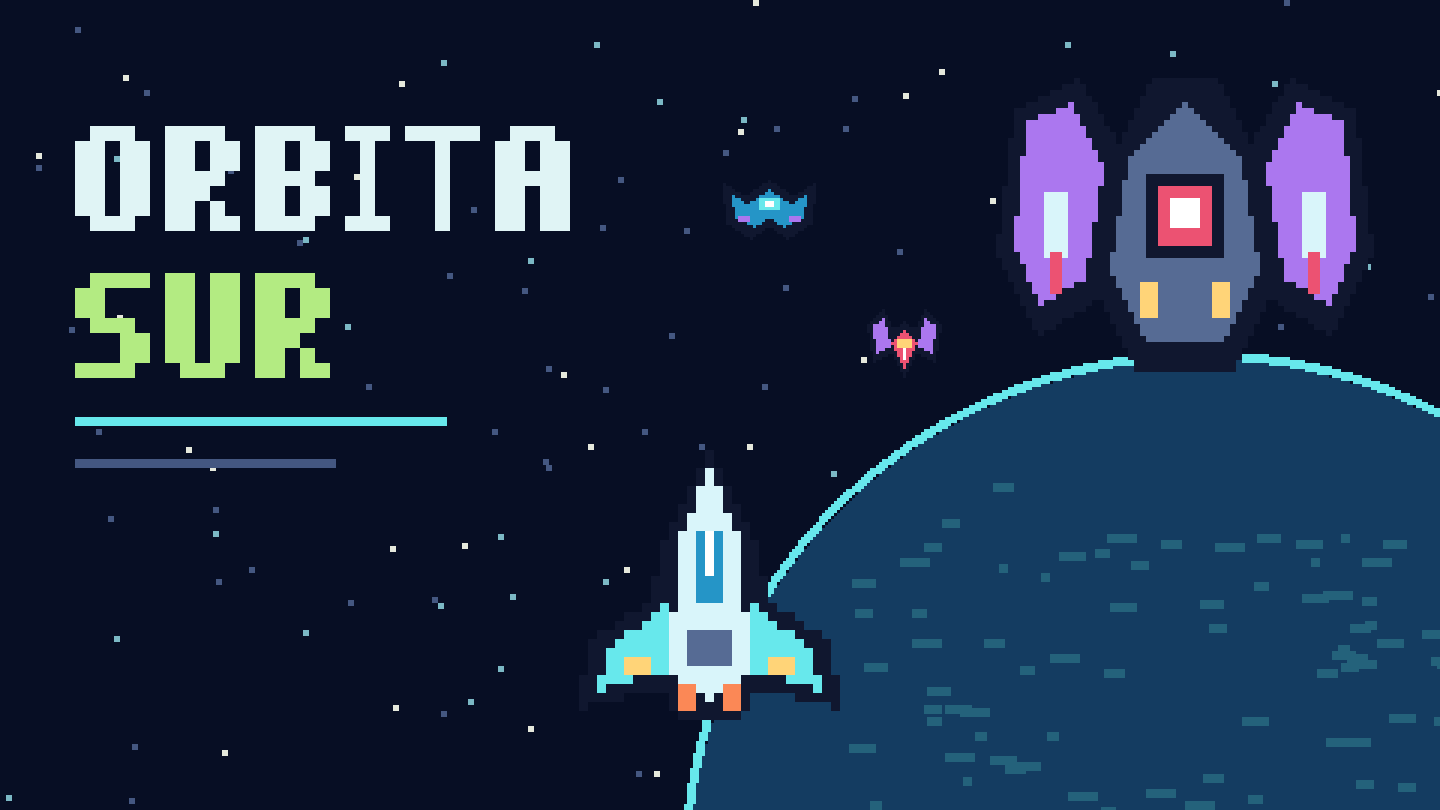
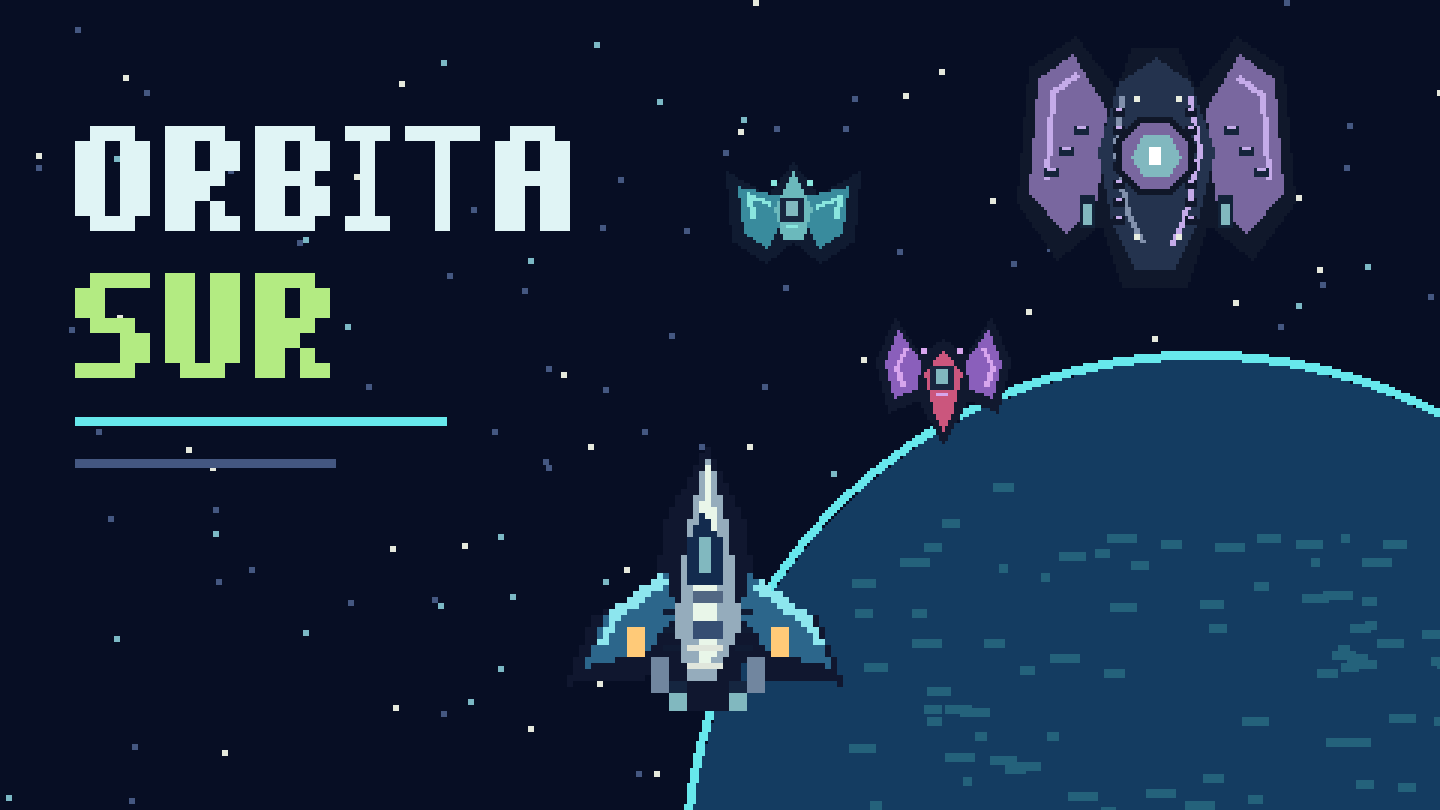
Upgrade Orbita Sur with animated detailed ships and cinematic boss attacks

diff --git a/games/orbita-sur/game.js b/games/orbita-sur/game.js
@@ -8,16 +8,16 @@ const audio={ctx:null,on:saved.sound,last:0,enable(){try{this.ctx??=new (window.
 const fmt=n=>Math.floor(n).toString().padStart(6,'0');
 class Orbit extends Phaser.Scene{
  constructor(){super('Orbit');}
- preload(){for(const key of ['player','scout','manta','tank','boss0','boss1','boss2','mate'])this.load.image(key,`assets/${key}.png`);}
+ preload(){for(const key of ['player','scout','manta','tank','boss0','boss1','boss2','mate']){if(key==='mate')this.load.image(key,`assets/${key}.png`);else{const size=key.startsWith('boss')?96:48;this.load.spritesheet(key,`assets/${key}-sheet.png`,{frameWidth:size,frameHeight:size});}}}
  create(){
-  this.W=this.scale.width;this.H=this.scale.height;this.fx=this.add.graphics().setDepth(20);this.bg=this.add.graphics().setDepth(-10);this.trails=this.add.graphics().setDepth(0);this.ship=this.add.image(this.W*.5,this.H*.78,'player').setScale(1.8).setDepth(10);
+  this.W=this.scale.width;this.H=this.scale.height;this.fx=this.add.graphics().setDepth(20);this.bg=this.add.graphics().setDepth(-10);this.trails=this.add.graphics().setDepth(0);this.ship=this.add.image(this.W*.5,this.H*.78,'player').setScale(1.4).setDepth(10);
   this.stars=Array.from({length:140},()=>({x:Math.random()*this.W,y:Math.random()*this.H,z:Math.random(),tw:Math.random()*6}));
-  this.enemies=[];this.shots=[];this.hostile=[];this.particles=[];this.pickups=[];this.rings=[];this.timeAlive=0;this.clock=0;this.mode='title';this.sector=0;this.score=0;this.lives=5;this.pulse=0;this.invuln=0;this.wave=0;this.kills=0;this.boss=null;this.bannerTime=0;this.fire=0;this.phase='waves';this.waveWait=2;
+  this.enemies=[];this.shots=[];this.hostile=[];this.particles=[];this.pickups=[];this.rings=[];this.delayed=[];this.beam=null;this.muzzle=0;this.timeAlive=0;this.clock=0;this.mode='title';this.sector=0;this.score=0;this.lives=5;this.pulse=0;this.invuln=0;this.wave=0;this.kills=0;this.boss=null;this.bannerTime=0;this.fire=0;this.phase='waves';this.waveWait=2;
   this.keys=this.input.keyboard.addKeys('W,A,S,D,UP,DOWN,LEFT,RIGHT,SPACE,P,ESC');this.input.keyboard.addCapture(['UP','DOWN','LEFT','RIGHT','SPACE']);
   this.input.keyboard.on('keydown-SPACE',e=>{if(!e.repeat)this.pulseBurst();});this.input.keyboard.on('keydown-P',e=>{if(!e.repeat)this.togglePause();});this.input.keyboard.on('keydown-ESC',()=>{if(this.mode==='playing')this.togglePause();});
   this.input.on('pointerdown',p=>{if(this.mode==='playing'){this.dragging=true;this.target={x:p.x,y:p.y};}});this.input.on('pointermove',p=>{if(this.dragging&&p.isDown)this.target={x:p.x,y:p.y};});this.input.on('pointerup',()=>{this.dragging=false;this.target=null;});
   this.game.events.on(Phaser.Core.Events.BLUR,()=>{if(this.mode==='playing')this.togglePause();});
-  this.scale.on('resize',size=>{const sx=size.width/this.W,sy=size.height/this.H;this.W=size.width;this.H=size.height;this.ship.x*=sx;this.ship.y*=sy;for(const a of [...this.enemies,...this.shots,...this.hostile,...this.pickups]){a.x*=sx;a.y*=sy;}for(const s of this.stars){s.x*=sx;s.y*=sy;}});
+  this.scale.on('resize',size=>{const sx=size.width/this.W,sy=size.height/this.H;this.W=size.width;this.H=size.height;this.ship.x*=sx;this.ship.y*=sy;for(const a of [...this.enemies,...this.shots,...this.hostile,...this.pickups]){a.x*=sx;a.y*=sy;if(Number.isFinite(a.baseX))a.baseX*=sx;}if(this.beam)this.beam.xs=this.beam.xs.map(x=>Phaser.Math.Clamp(x*sx,25,this.W-25));for(const s of this.stars){s.x*=sx;s.y*=sy;}});
   $('#start').onclick=()=>{audio.enable();if(this.mode==='paused')this.resume();else this.start();};$('#pause').onclick=()=>this.togglePause();$('#touch-pulse').onclick=()=>this.pulseBurst();$('#sound').onclick=()=>{audio.on=!audio.on;saved.sound=audio.on;audio.enable();persist();this.soundUI();};$('.brand').onclick=e=>e.preventDefault();
   this.soundUI();this.hud();$('#record').textContent='RÉCORD '+fmt(saved.best);
  }
@@ -25,7 +25,7 @@ class Orbit extends Phaser.Scene{
  start(){
   this.clean();this.sector=0;this.score=0;this.lives=5;this.wave=0;this.kills=0;this.pulse=0;this.invuln=2.5;this.clock=0;this.fire=0;this.weapon=0;this.phase='waves';this.waveWait=2.5;this.ship.setPosition(this.W/2,this.H*.81).setAlpha(1).setAngle(0);this.ship.visible=true;this.mode='playing';this.target=null;this.dragging=false;$('#overlay').classList.add('hidden');document.documentElement.classList.remove('paused');$('#boss-hud').hidden=true;this.announce('SECTOR 01',SECTORS[0].name,2.8);this.hud();
  }
- clean(){for(const e of this.enemies)e.sprite.destroy();for(const p of this.pickups)p.sprite.destroy();this.enemies=[];this.shots=[];this.hostile=[];this.particles=[];this.pickups=[];this.rings=[];this.boss=null;}
+ clean(){for(const e of this.enemies)e.sprite.destroy();for(const p of this.pickups)p.sprite.destroy();this.enemies=[];this.shots=[];this.hostile=[];this.particles=[];this.pickups=[];this.rings=[];this.delayed=[];this.beam=null;this.muzzle=0;this.boss=null;}
  togglePause(){if(this.mode==='playing'){this.mode='paused';this.target=null;this.dragging=false;this.overlay('SEÑAL EN ESPERA','PAUSA','Tus mates siguen a bordo.<br>Retomá cuando quieras.','CONTINUAR');document.documentElement.classList.add('paused');}else if(this.mode==='paused')this.resume();}
  resume(){this.mode='playing';$('#overlay').classList.add('hidden');document.documentElement.classList.remove('paused');}
  overlay(eyebrow,title,desc,button){$('#eyebrow').textContent=eyebrow;$('#title').innerHTML=title;$('#description').innerHTML=desc;$('#start').innerHTML=button+' <span>↗</span>';$('#brief').style.display='none';$('#hint').textContent=this.mode==='paused'?'P para continuar · Tu partida queda en pausa':'Récord guardado en este navegador · Una partida más';$('#overlay').classList.remove('hidden');}
@@ -34,9 +34,9 @@ class Orbit extends Phaser.Scene{
   $('#score').textContent=fmt(this.score);$('#lives').innerHTML=Array.from({length:5},(_,i)=>`<img class="${i>=this.lives?'empty':''}" src="assets/mate.png" alt="">`).join('');$('#lives').setAttribute('aria-label',`${this.lives} mates`);
   $('#mission').textContent=`0${this.sector+1} / ${SECTORS[this.sector].name}`;$('#sector-label').textContent=SECTORS[this.sector].signal;
  }
- burst(x,y,color=0xffd478,n=18,big=false){for(let i=0;i<n;i++){const a=Math.random()*Math.PI*2,v=(40+Math.random()*150)*(big?1.6:1);this.particles.push({x,y,vx:Math.cos(a)*v,vy:Math.sin(a)*v,life:.3+Math.random()*.55,max:.85,color,size:Math.random()<.25?5:3});}this.rings.push({x,y,r:4,max:big?135:48,life:big?.6:.3,color});}
- pulseBurst(){if(this.mode!=='playing'||this.pulse>0)return;this.pulse=8;this.hostile=[];this.invuln=Math.max(this.invuln,.7);this.rings.push({x:this.ship.x,y:this.ship.y,r:0,max:Math.max(this.W,this.H)*1.25,life:.65,color:0x67e8ec,pulse:true});for(const e of [...this.enemies])this.damage(e,e.boss?12:5);this.cameras.main.shake(120,.003);audio.tone(110,.5,'sine',.065,1000);this.announce('PROYECTILES DESPEJADOS','PULSO AUSTRAL',.8);}
- spawn(type,x,y,options={}){const hp={scout:2,manta:3,tank:7,boss0:85,boss1:125,boss2:165}[type],e={type,x,y,baseX:x,age:0,hp,maxHp:hp,r:type.startsWith('boss')?43:type==='tank'?24:18,cd:1+Math.random(),flash:0,...options};e.sprite=this.add.image(x,y,type).setScale(type.startsWith('boss')?2:1.5).setDepth(5);this.enemies.push(e);if(e.boss)this.boss=e;return e;}
+ burst(x,y,color=0xffd478,n=18,big=false){for(let i=0;i<n;i++){const a=Math.random()*Math.PI*2,v=(40+Math.random()*150)*(big?1.6:1);this.particles.push({x,y,vx:Math.cos(a)*v,vy:Math.sin(a)*v,life:.3+Math.random()*.55,max:.85,color,size:Math.random()<.25?5:3});}this.rings.push({x,y,r:4,max:big?135:48,life:big?.6:.3,color});this.rings.push({x,y,r:1,max:big?80:28,life:.3,color:0xffefd0});if(big)for(let i=0;i<10;i++){const a=i*Math.PI/5;this.particles.push({x,y,vx:Math.cos(a)*160,vy:Math.sin(a)*160,life:1.1,color:i%2?0x617b98:color,size:6});}}
+ pulseBurst(){if(this.mode!=='playing'||this.pulse>0)return;this.pulse=8;this.hostile=[];this.beam=null;this.invuln=Math.max(this.invuln,.7);this.rings.push({x:this.ship.x,y:this.ship.y,r:0,max:Math.max(this.W,this.H)*1.25,life:.65,color:0x67e8ec,pulse:true});for(const e of [...this.enemies])this.damage(e,e.boss?12:5);this.cameras.main.shake(120,.003);this.cameras.main.flash(90,50,130,140,false);audio.tone(110,.5,'sine',.065,1000);this.announce('PROYECTILES DESPEJADOS','PULSO AUSTRAL',.8);}
+ spawn(type,x,y,options={}){const hp={scout:2,manta:3,tank:7,boss0:85,boss1:125,boss2:165}[type],e={type,x,y,baseX:x,age:0,hp,maxHp:hp,r:type.startsWith('boss')?55:type==='tank'?24:18,cd:1+Math.random(),flash:0,...options};e.sprite=this.add.image(x,y,type).setScale(type.startsWith('boss')?2:1.2).setDepth(5);this.enemies.push(e);if(e.boss)this.boss=e;return e;}
  nextWave(){
   const s=this.sector,w=this.wave++,n=this.W<600?6:9;
   if(w===0){for(let i=0;i<n;i++)this.spawn('scout',this.W*(i+1)/(n+1),-70-i%3*45,{style:'drift',vy:54+s*9});}
@@ -47,27 +47,27 @@ class Orbit extends Phaser.Scene{
  spawnBoss(){this.phase='boss';const b=this.spawn('boss'+this.sector,this.W/2,-100,{boss:true,hp:SECTORS[this.sector].hp,maxHp:SECTORS[this.sector].hp});b.cd=2;$('#boss-name').textContent=SECTORS[this.sector].boss;$('#boss-hud').hidden=false;$('#boss-health').style.width='100%';}
  bullet(e,angle,speed=170,color=0xff8869){this.hostile.push({x:e.x,y:e.y+19,vx:Math.cos(angle)*speed,vy:Math.sin(angle)*speed,r:5,life:8,color});}
  aimed(e,count=1,speed=170){const a=Math.atan2(this.ship.y-e.y,this.ship.x-e.x);for(let i=0;i<count;i++)this.bullet(e,a+(i-(count-1)/2)*.16,speed);}
- damage(e,n=1){if(!this.enemies.includes(e))return;e.hp-=n;e.flash=.06;e.sprite.setTintFill(0xe4f9f5);if(e.boss)$('#boss-health').style.width=Math.max(0,e.hp/e.maxHp*100)+'%';if(e.hp<=0)this.destroyEnemy(e);}
- destroyEnemy(e,escaped=false){const idx=this.enemies.indexOf(e);if(idx<0)return;this.enemies.splice(idx,1);e.sprite.destroy();if(escaped)return;this.score+=e.boss?2500*(this.sector+1):e.type==='tank'?180:80;this.kills++;this.burst(e.x,e.y,e.boss?SECTORS[this.sector].color:0xffd478,e.boss?80:18,!!e.boss);audio.boom(!!e.boss);if(e.boss){this.boss=null;this.hostile=[];$('#boss-hud').hidden=true;this.cameras.main.shake(350,.008);this.phase='transit';this.waveWait=4;this.announce('SECTOR LIBERADO','SEÑAL RECUPERADA',3);this.lives=Math.min(5,this.lives+1);}else if(this.kills%8===0)this.drop(e.x,e.y,'mate');else if(this.kills%11===0)this.drop(e.x,e.y,'upgrade');this.hud();}
+ damage(e,n=1){if(!this.enemies.includes(e))return;e.hp-=n;this.hitSpark(e.x+(Math.random()-.5)*18,e.y+e.r);e.flash=.06;e.sprite.setTintFill(0xe4f9f5);if(e.boss)$('#boss-health').style.width=Math.max(0,e.hp/e.maxHp*100)+'%';if(e.hp<=0)this.destroyEnemy(e);}
+ destroyEnemy(e,escaped=false){const idx=this.enemies.indexOf(e);if(idx<0)return;this.enemies.splice(idx,1);e.sprite.destroy();if(escaped)return;this.score+=e.boss?2500*(this.sector+1):e.type==='tank'?180:80;this.kills++;this.burst(e.x,e.y,e.boss?SECTORS[this.sector].color:0xffd478,e.boss?80:18,!!e.boss);audio.boom(!!e.boss);if(e.boss){this.boss=null;this.hostile=[];this.beam=null;for(let i=0;i<9;i++)this.delayed.push({time:.08+i*.09,x:e.x+(Math.random()-.5)*140,y:e.y+(Math.random()-.5)*95});this.cameras.main.flash(120,180,130,90,false);$('#boss-hud').hidden=true;this.cameras.main.shake(350,.008);this.phase='transit';this.waveWait=4;this.announce('SECTOR LIBERADO','SEÑAL RECUPERADA',3);this.lives=Math.min(5,this.lives+1);}else if(this.kills%8===0)this.drop(e.x,e.y,'mate');else if(this.kills%11===0)this.drop(e.x,e.y,'upgrade');this.hud();}
  drop(x,y,type){const sprite=type==='mate'?this.add.image(x,y,'mate').setScale(1.8):this.add.text(x,y,'✦',{fontFamily:'monospace',fontSize:'27px',color:'#67e8ec'}).setOrigin(.5);sprite.setDepth(8);this.pickups.push({x,y,type,sprite,age:0});}
- hurt(){if(this.invuln>0||this.mode!=='playing')return;this.lives--;this.invuln=2;this.weapon=Math.max(0,this.weapon-1);this.burst(this.ship.x,this.ship.y,0x67e8ec,26);this.cameras.main.shake(160,.007);audio.boom();this.hud();if(this.lives<=0){this.ship.visible=false;this.finish(false);}}
+ hurt(){if(this.invuln>0||this.mode!=='playing')return;this.lives--;this.invuln=2;this.weapon=Math.max(0,this.weapon-1);this.burst(this.ship.x,this.ship.y,0x67e8ec,26);this.cameras.main.flash(80,120,30,45,false);this.cameras.main.shake(160,.007);audio.boom();this.hud();if(this.lives<=0){this.ship.visible=false;this.finish(false);}}
  finish(won){this.mode=won?'won':'lost';if(won)this.score+=this.lives*500;const record=this.score>saved.best;saved.best=Math.max(saved.best,this.score);persist();$('#record').textContent='RÉCORD '+fmt(saved.best);$('#announcement').style.opacity='0';$('#boss-hud').hidden=true;this.hud();this.overlay(won?'LA TIERRA ESCUCHA OTRA VEZ':'LA SEÑAL SIGUE AHÍ',won?'VOLVIMOS<br><em>AL SUR.</em>':'UNA ÓRBITA<br><em>MÁS.</em>',`${won?'Los tres sectores están libres. El faro vuelve a latir.':'La Austral-01 dejó su marca. Otra tripulación puede continuar.'}<br><br>PUNTAJE <b style="color:#b3eb82">${fmt(this.score)}</b>${record?' · NUEVO RÉCORD':''}<br>${won?`${this.lives} mates volvieron a casa.`:'Se terminaron los mates. El récord queda guardado.'}`,'VOLVER A DESPEGAR');audio.tone(won?440:180,.5,'triangle',.04,won?440:-100);}
  update(time,delta){
-  const dt=Math.min(delta/1000,.04);this.timeAlive+=dt;
+  const dt=Math.min(delta/1000,.04);if(this.mode!=='paused')this.timeAlive+=dt;this.ship.setFrame(Math.floor(this.timeAlive*12)%6);
   if(this.mode==='playing'){this.clock+=dt;this.tick(dt);}
   this.drawBackground(dt);this.drawFX(dt,this.mode==='playing');
   if(this.mode==='title'){this.ship.x=this.W*.72+Math.sin(this.timeAlive)*10;this.ship.y=this.H*.65+Math.cos(this.timeAlive*.7)*12;}
   if(this.mode==='playing'||this.mode==='title')this.thruster();
  }
  tick(dt){
-  this.invuln=Math.max(0,this.invuln-dt);this.pulse=Math.max(0,this.pulse-dt);this.ship.setAlpha(this.invuln>0?(Math.sin(this.clock*35)>0?.4:1):1);if(this.bannerTime>0){this.bannerTime-=dt;if(this.bannerTime<=0)$('#announcement').style.opacity='0';}
+  this.muzzle=Math.max(0,this.muzzle-dt);for(const d of this.delayed){d.time-=dt;if(d.time<=0){this.burst(d.x,d.y,0xffbf78,24,true);d.time=Infinity;}}this.delayed=this.delayed.filter(d=>d.time!==Infinity);this.updateBeam(dt);this.invuln=Math.max(0,this.invuln-dt);this.pulse=Math.max(0,this.pulse-dt);this.ship.setAlpha(this.invuln>0?(Math.sin(this.clock*35)>0?.4:1):1);if(this.bannerTime>0){this.bannerTime-=dt;if(this.bannerTime<=0)$('#announcement').style.opacity='0';}
   let dx=(this.keys.D.isDown||this.keys.RIGHT.isDown?1:0)-(this.keys.A.isDown||this.keys.LEFT.isDown?1:0),dy=(this.keys.S.isDown||this.keys.DOWN.isDown?1:0)-(this.keys.W.isDown||this.keys.UP.isDown?1:0);const l=Math.hypot(dx,dy)||1,speed=Math.min(this.W*.85,430);if(dx||dy){this.target=null;this.ship.x+=dx/l*speed*dt;this.ship.y+=dy/l*speed*dt;}else if(this.target){const ax=this.target.x-this.ship.x,ay=this.target.y-this.ship.y,dist=Math.hypot(ax,ay),step=Math.min(dist,speed*1.6*dt);if(dist>1){this.ship.x+=ax/dist*step;this.ship.y+=ay/dist*step;dx=ax;}}
   this.ship.x=Phaser.Math.Clamp(this.ship.x,28,this.W-28);this.ship.y=Phaser.Math.Clamp(this.ship.y,95,this.H-36);this.ship.setAngle(Phaser.Math.Linear(this.ship.angle,dx?Math.sign(dx)*-7:0,.14));
-  this.fire-=dt;if(this.fire<=0){this.fire=.14;const offsets=this.weapon>0?[-11,11]:[0];for(const ox of offsets)this.shots.push({x:this.ship.x+ox,y:this.ship.y-22,vy:-720,r:4});if(this.weapon>1)for(const sign of [-1,1])this.shots.push({x:this.ship.x+sign*15,y:this.ship.y-12,vx:sign*90,vy:-690,r:4});audio.shoot();}
+  this.fire-=dt;if(this.fire<=0){this.fire=.14;this.muzzle=.07;const offsets=this.weapon>0?[-11,11]:[0];for(const ox of offsets)this.shots.push({x:this.ship.x+ox,y:this.ship.y-22,vy:-720,r:4});if(this.weapon>1)for(const sign of [-1,1])this.shots.push({x:this.ship.x+sign*15,y:this.ship.y-12,vx:sign*90,vy:-690,r:4});audio.shoot();}
   for(const s of this.shots){s.x+=(s.vx||0)*dt;s.y+=s.vy*dt;for(const e of [...this.enemies])if(s.y>-40&&Math.hypot(s.x-e.x,s.y-e.y)<e.r+5){this.damage(e);s.y=-100;break;}}this.shots=this.shots.filter(s=>s.y>-50);
   for(const e of [...this.enemies]){
-   e.age+=dt;e.cd-=dt;e.flash-=dt;if(e.flash<=0)e.sprite.clearTint();
-   if(e.boss){const targetY=Math.min(120,this.H*.23);e.y+=Math.min(80*dt,Math.max(0,targetY-e.y));e.x=this.W/2+Math.sin(e.age*.7)*Math.min(this.W*.3,210);if(e.cd<=0&&e.y>70){e.cd=[1,.85,.72][this.sector];const enraged=e.hp<e.maxHp*.45;if(this.sector===0){this.aimed(e,enraged?5:3,175);if(enraged)this.bullet(e,Math.PI/2,230,0xffd478);}else if(this.sector===1){for(let i=0;i<10;i++)this.bullet(e,i*Math.PI/5+e.age*.25,145,0xba88f8);if(enraged)this.aimed(e,3,200);}else{for(let i=0;i<7;i++)this.bullet(e,Math.PI/2+(i-3)*.23+Math.sin(e.age)*.15,enraged?200:170,0xffd478);this.aimed(e,1,245);}}}
+   e.age+=dt;e.cd-=dt;e.sprite.setFrame(Math.floor(e.age*(e.boss?9:12))%6);e.flash-=dt;if(e.flash<=0)e.sprite.clearTint();
+   if(e.boss){if(e.hp<e.maxHp*.45&&!e.enraged){e.enraged=true;this.burst(e.x,e.y,SECTORS[this.sector].color,26);this.announce('REACTOR INESTABLE','FASE CRÍTICA',1.4);}e.special=(e.special??5)-dt;if(e.special<=0&&e.y>70){e.special=7;this.beam={xs:[Phaser.Math.Clamp(this.ship.x,35,this.W-35)],charge:1.15,life:.32,color:SECTORS[this.sector].color};if(this.sector===2&&this.W>550)this.beam.xs.push(Phaser.Math.Clamp(this.W-this.ship.x,35,this.W-35));audio.tone(180,.65,'sine',.025,500);}const targetY=Math.min(120,this.H*.23);e.y+=Math.min(80*dt,Math.max(0,targetY-e.y));e.x=this.W/2+Math.sin(e.age*.7)*Math.min(this.W*.3,210);if(e.cd<=0&&e.y>70){e.cd=[1,.85,.72][this.sector];const enraged=e.hp<e.maxHp*.45;if(this.sector===0){this.aimed(e,enraged?5:3,175);if(enraged)this.bullet(e,Math.PI/2,230,0xffd478);}else if(this.sector===1){for(let i=0;i<10;i++)this.bullet(e,i*Math.PI/5+e.age*.25,145,0xba88f8);if(enraged)this.aimed(e,3,200);}else{for(let i=0;i<7;i++)this.bullet(e,Math.PI/2+(i-3)*.23+Math.sin(e.age)*.15,enraged?200:170,0xffd478);this.aimed(e,1,245);}}}
    else{if(e.style==='hold'&&e.age<5&&e.y>this.H*.25)e.y+=Math.sin(e.age*2)*5*dt;else e.y+=e.vy*dt;if(e.style==='sine')e.x=e.baseX+Math.sin(e.age*2.1)*e.amp;else if(e.style==='drift')e.x=e.baseX+Math.sin(e.age*1.2)*22;
     if(e.cd<=0&&e.y>35&&e.y<this.H*.7){e.cd=e.type==='tank'?1.7:2.4;this.aimed(e,e.type==='tank'?3:1,150+this.sector*18);}
     if(e.y>this.H+70){this.destroyEnemy(e,true);continue;}}
@@ -80,18 +80,30 @@ class Orbit extends Phaser.Scene{
   if(this.enemies.length===0){this.waveWait-=dt;if(this.waveWait<=0){this.waveWait=1.6;if(this.phase==='waves')this.nextWave();else if(this.phase==='warning')this.spawnBoss();else if(this.phase==='transit'){if(this.sector===2){this.finish(true);return;}this.sector++;this.wave=0;this.phase='waves';this.waveWait=3;this.invuln=3;this.shots=[];this.weapon=Math.min(2,this.weapon+1);this.hud();this.announce(`SECTOR 0${this.sector+1}`,SECTORS[this.sector].name,2.7);}}}
   $('#pulse-status').textContent=this.pulse>0?Math.ceil(this.pulse)+'s':'LISTO';$('#pulse-fill').style.width=(1-this.pulse/8)*100+'%';$('#touch-pulse').disabled=this.pulse>0;$('#status').textContent=this.weapon>0?'ARMAS NIVEL 0'+(this.weapon+1):'NAVE AUSTRAL-01';
  }
+ hitSpark(x,y){for(let i=0;i<4;i++)this.particles.push({x,y,vx:(Math.random()-.5)*100,vy:40+Math.random()*100,life:.12+Math.random()*.13,color:i%2?0xffffff:0x67e8ec,size:2});}
+ updateBeam(dt){if(!this.beam)return;const b=this.beam;if(b.charge>0){b.charge-=dt;if(b.charge<=0){this.cameras.main.shake(120,.003);audio.tone(75,.3,'sawtooth',.04,-40);}}else{b.life-=dt;if(b.xs.some(x=>Math.abs(this.ship.x-x)<22))this.hurt();if(b.life<=0)this.beam=null;}}
+ drawCombat(){
+  const g=this.fx,t=this.timeAlive;
+  if(this.muzzle>0&&this.mode==='playing'){g.fillStyle(0xdffff5,.85);g.fillRect(this.ship.x-7,this.ship.y-34,14,3);g.fillRect(this.ship.x-2,this.ship.y-40,4,14);}
+  for(const e of this.enemies){const color=e.boss?SECTORS[this.sector].color:e.type==='manta'?0x67e8ec:0xe79be4;
+   // Separate exhaust plumes and rotating reactor field, kept behind hit effects.
+   for(const sign of [-1,1]){const x=e.x+sign*(e.boss?46:12),y=e.y-(e.boss?40:20),len=(e.boss?24:10)+Math.floor((Math.sin(t*30+sign)+1)*5);g.fillStyle(color,.15);g.fillRect(x-5,y-len,10,len);g.fillStyle(color,.7);g.fillRect(x-2,y-len*.65,4,len*.65);}
+   if(e.boss){const r=31+Math.sin(t*5)*3;g.lineStyle(2,color,.4);for(let j=0;j<8;j++){const a=t*.8+j*Math.PI/4;const x=e.x+Math.cos(a)*r,y=e.y-6+Math.sin(a)*r;g.fillStyle(color,.6);g.fillRect(Math.floor(x/2)*2,Math.floor(y/2)*2,4,4);}if(e.cd<.25){g.fillStyle(color,(.25-e.cd)*2);g.fillRect(e.x-11,e.y-17,22,22);}if(e.enraged&&Math.sin(t*12)>.4){g.fillStyle(0xff765e,.6);g.fillRect(e.x-44,e.y+18,6,3);g.fillRect(e.x+38,e.y+18,6,3);}}
+  }
+  if(this.beam){const b=this.beam;for(const x of b.xs){if(b.charge>0){g.fillStyle(b.color,.08);g.fillRect(x-20,85,40,this.H-85);g.fillStyle(b.color,.4+Math.sin(t*30)*.3);for(let y=90;y<this.H;y+=18)g.fillRect(x-1,y,2,8);g.lineStyle(2,b.color,.8);g.strokeTriangle(x-8,this.H-40,x+8,this.H-40,x,this.H-53);}else{g.fillStyle(b.color,.12);g.fillRect(x-30,80,60,this.H);g.fillStyle(b.color,.75);g.fillRect(x-12,80,24,this.H);g.fillStyle(0xfff6da,1);g.fillRect(x-4,80,8,this.H);}}}
+ }
  drawBackground(dt){const g=this.bg,w=this.W,h=this.H,t=this.timeAlive,s=this.sector;g.clear();g.fillStyle([0x080f24,0x100f28,0x101728][s],1);g.fillRect(0,0,w,h);
   // Quantized nebula bands; no gradients or smooth vector art inside the field.
   const col=[0x183450,0x302149,0x344039][s];for(let i=0;i<12;i++){g.fillStyle(col,.11);g.fillRect(Math.floor((Math.sin(i*.7+t*.03)*w*.15+w*.2+i*19)/8)*8,Math.floor((i*80+t*6)%(h+250)-170),80+i*8,120);}
   if(s===0){const cx=w*.85,cy=h*1.1+Math.sin(t*.05)*10,r=Math.min(w*.5,h*.65);g.fillStyle(0x234660,1);g.fillCircle(cx,cy,r+4);g.fillStyle(0x142e49,1);g.fillCircle(cx,cy,r);for(let i=0;i<50;i++){const x=cx-r+((i*79)%Math.floor(r*2)),y=cy-r+((i*43)%Math.floor(r*2));if((x-cx)**2+(y-cy)**2<(r-6)**2){g.fillStyle(i%3===0?0x32677a:0x215168,.7);g.fillRect(Math.floor(x/8)*8,Math.floor(y/8)*8,8+(i%4)*8,8);}}}
-  if(s===2){const x=w*.77,y=h*.3;g.lineStyle(2,0x59765e,.25);g.strokeCircle(x,y,100);g.strokeCircle(x,y,118);g.fillStyle(0xb3eb82,.12);g.fillRect(x-3,y-120,6,240);g.fillRect(x-120,y-3,240,6);}
+  if(s===1){for(let i=0;i<10;i++){const x=(i*173+47)%w,y=(i*113+t*(12+i%3*8))%(h+120)-60;g.fillStyle(0x24283e,1);g.fillPoints([{x:x-13,y:y-8},{x:x-3,y:y-17},{x:x+16,y:y-5},{x:x+12,y:y+12},{x:x-10,y:y+15}],true);g.fillStyle(0x3c3b53,.8);g.fillRect(x-7,y-8,12,5);g.fillStyle(0x101d31,.7);g.fillRect(x+1,y+3,7,5);}}if(s===2){const x=w*.77,y=h*.3;g.lineStyle(2,0x59765e,.25);g.strokeCircle(x,y,100);g.strokeCircle(x,y,118);g.fillStyle(0xb3eb82,.12);g.fillRect(x-3,y-120,6,240);g.fillRect(x-120,y-3,240,6);}
   const moving=this.mode!=='paused';for(const st of this.stars){if(moving)st.y+=(12+st.z*53)*dt*(this.phase==='transit'?3:1);if(st.y>h){st.y=-5;st.x=Math.random()*w;}g.fillStyle(st.z>.75?0xd9f5fa:0x5b839c,.3+st.z*.6+Math.sin(t+st.tw)*.08);const size=st.z>.8?2:1;g.fillRect(Math.floor(st.x),Math.floor(st.y),size,this.phase==='transit'?size*4:size);}
   // Small satellite debris gives the world scale.
   const by=(t*16)%(h+160)-140,bx=w*.18;g.fillStyle(0x254354,.6);g.fillRect(bx,by,20,7);g.fillRect(bx-17,by-2,13,11);g.fillRect(bx+24,by-2,13,11);g.fillStyle(0x486577,.5);g.fillRect(bx+8,by-9,3,25);
  }
  thruster(){if(!this.ship.visible)return;const g=this.trails,x=this.ship.x,y=this.ship.y;const n=Math.floor(this.timeAlive*18)%3;g.fillStyle(0x2595c7,.25);g.fillRect(x-8,y+20,16,22+n*6);g.fillStyle(0x67e8ec,.9);g.fillRect(x-5,y+21,10,12+n*4);g.fillStyle(0xe4faf2,1);g.fillRect(x-2,y+21,4,9+n*2);}
- drawFX(dt,advance){const g=this.fx;g.clear();this.trails.clear();for(const b of this.shots){g.fillStyle(0x2595c7,.2);g.fillRect(b.x-4,b.y-12,8,28);g.fillStyle(0x67e8ec,.8);g.fillRect(b.x-2,b.y-8,4,18);g.fillStyle(0xe1fbf2,1);g.fillRect(b.x-1,b.y-8,2,11);}for(const b of this.hostile){g.fillStyle(b.color,.15);g.fillRect(b.x-8,b.y-8,16,16);g.fillStyle(b.color,1);g.fillRect(b.x-4,b.y-4,8,8);g.fillStyle(0xffefce,1);g.fillRect(b.x-1,b.y-2,2,3);}
-  const anim=this.mode!=='paused';for(const p of this.particles){if(anim){p.life-=dt;p.x+=p.vx*dt;p.y+=p.vy*dt;p.vx*=.98;p.vy*=.98;}g.fillStyle(p.color,Math.max(0,p.life/.85));g.fillRect(Math.floor(p.x/2)*2,Math.floor(p.y/2)*2,p.size,p.size);}this.particles=this.particles.filter(p=>p.life>0);
+ drawFX(dt,advance){const g=this.fx;g.clear();this.trails.clear();this.drawCombat();for(const b of this.shots){g.fillStyle(0x2595c7,.2);g.fillRect(b.x-4,b.y-12,8,28);g.fillStyle(0x67e8ec,.8);g.fillRect(b.x-2,b.y-8,4,18);g.fillStyle(0xe1fbf2,1);g.fillRect(b.x-1,b.y-8,2,11);}for(const b of this.hostile){g.fillStyle(b.color,.15);g.fillRect(b.x-8,b.y-8,16,16);g.fillStyle(b.color,1);g.fillRect(b.x-4,b.y-4,8,8);g.fillStyle(0xffefce,1);g.fillRect(b.x-1,b.y-2,2,3);g.fillStyle(b.color,.25);g.fillRect(b.x-b.vx*.035-2,b.y-b.vy*.035-2,4,4);}
+  const anim=this.mode!=='paused';for(const p of this.particles){if(anim){p.life-=dt;p.x+=p.vx*dt;p.y+=p.vy*dt;p.vx*=Math.pow(.98,dt*60);p.vy*=Math.pow(.98,dt*60);}g.fillStyle(p.color,Math.max(0,p.life/.85));g.fillRect(Math.floor(p.x/2)*2,Math.floor(p.y/2)*2,p.size,p.size);if(p.size>=5){g.fillStyle(0xfff0c5,Math.max(0,p.life/.85)*.7);g.fillRect(Math.floor(p.x/2)*2,Math.floor(p.y/2)*2,2,2);}}this.particles=this.particles.filter(p=>p.life>0);
   for(const r of this.rings){if(anim){r.life-=dt;r.r+=r.max*dt/(r.pulse?.65:.5);}g.lineStyle(r.pulse?5:2,r.color,Math.max(0,r.life));g.strokeCircle(r.x,r.y,r.r);}this.rings=this.rings.filter(r=>r.life>0);
   // Scanlines are faint and fixed, keeping sprites crisp.
   g.fillStyle(0x020914,.1);for(let y=0;y<this.H;y+=4)g.fillRect(0,y,this.W,1);

diff --git a/games/orbita-sur/index.html b/games/orbita-sur/index.html
@@ -2,7 +2,7 @@
 <main id="arcade" aria-label="Órbita Sur, juego arcade espacial">
 <header class="hud"><a class="brand" href="#" aria-label="Órbita Sur">ÓRBITA <b>SUR</b><small>PIXEL SUR ORIGINAL / 02</small></a><div class="score"><small>PUNTAJE</small><strong id="score">000000</strong></div><div class="mates"><small>TUS MATES</small><span id="lives" aria-label="5 mates"></span></div><div class="tools"><button id="sound" aria-label="Activar sonido" title="Sonido">♪ OFF</button><button id="pause" aria-label="Pausar partida" title="Pausar (P)">Ⅱ</button></div></header>
 <section class="playfield"><div id="game" aria-label="Campo de juego. Flechas o WASD para moverte; disparo automático; espacio para el pulso."></div><div class="sector"><span id="sector-label">LA TIERRA QUEDA ATRÁS</span><span id="record">RÉCORD 000000</span></div><div id="boss-hud" hidden><div><span id="boss-name">CENTINELA</span><span>REACTOR HOSTIL</span></div><div class="bar"><i id="boss-health"></i></div></div><div class="pulse-hud"><span>PULSO DEFENSIVO <b id="pulse-status">LISTO</b></span><div><i id="pulse-fill"></i></div></div><div id="announcement" aria-live="polite"></div>
-<div id="overlay" class="overlay"><div class="intro"><span class="eyebrow" id="eyebrow">UNA SEÑAL DESDE EL SUR</span><h1 id="title">ÓRBITA<br><em>SUR</em></h1><p id="description">La última nave de la Tierra.<br>Tres sectores. Una señal que no se apaga.</p><div class="brief" id="brief"><span><img src="assets/mate.png" alt="Mate"> 5 MATES PARA VOLVER</span><span>DISPARO AUTOMÁTICO</span></div><button class="primary" id="start">DESPEGAR <span>↗</span></button><p class="hint" id="hint">Flechas / WASD · Espacio: pulso · P: pausa<br>En táctil: arrastrá la nave y tocá PULSO</p></div><span class="overlay-foot">SIN MONEDAS. CON MATE. / EDICIÓN 01</span></div>
+<div id="overlay" class="overlay"><div class="intro"><span class="eyebrow" id="eyebrow">UNA SEÑAL DESDE EL SUR</span><h1 id="title">ÓRBITA<br><em>SUR</em></h1><p id="description">La última nave de la Tierra.<br>Tres sectores. Una señal que no se apaga.</p><div class="brief" id="brief"><span><img src="assets/mate.png" alt="Mate"> 5 MATES PARA VOLVER</span><span>DISPARO AUTOMÁTICO</span></div><button class="primary" id="start">DESPEGAR <span>↗</span></button><p class="hint" id="hint">Flechas / WASD · Espacio: pulso · P: pausa<br>En táctil: arrastrá la nave y tocá PULSO</p></div><span class="overlay-foot">SIN MONEDAS. CON MATE. / EDICIÓN 02 · REACTORES ACTIVOS</span></div>
 <button id="touch-pulse" aria-label="Activar pulso defensivo">PULSO <span>✦</span></button></section>
 <footer><span id="mission">01 / COSTA ORBITAL</span><span class="desktop-hint">MOVER: WASD / ↔ ↕ <b>·</b> PULSO: ESPACIO</span><span id="status">NAVE AUSTRAL-01</span></footer></main>
 <script src="phaser.min.js"></script><script src="game.js"></script></body></html>

diff --git a/games/orbita-sur/create-art.py b/games/orbita-sur/create-art.py
@@ -6,37 +6,96 @@ ROOT=Path(__file__).parent
 OUT=ROOT/'assets'; OUT.mkdir(exist_ok=True)
 P={'ink':'#10172f','steel':'#566b94','light':'#d9f5fa','white':'#ffffff','cyan':'#67e8ec','blue':'#2595c7','gold':'#ffd478','orange':'#fb8856','red':'#ec5272','purple':'#ab77ef','dark':'#30234f','green':'#b3eb82'}
 def ship(name,size,kind):
- im=Image.new('RGBA',(size,size)); d=ImageDraw.Draw(im); c=size//2
- def poly(points,color):d.polygon(points,fill=P.get(color,color))
- def rect(box,color):d.rectangle(box,fill=P.get(color,color))
- if kind=='player':
-  poly([(c,1),(c+5,11),(c+6,17),(c+13,22),(c+14,29),(c+5,27),(c+3,30),(c-3,30),(c-5,27),(c-14,29),(c-13,22),(c-6,17),(c-5,11)],'ink')
-  poly([(c,3),(c+3,11),(c+4,25),(c,28),(c-4,25),(c-3,11)],'light')
-  poly([(c-5,18),(c-11,23),(c-12,27),(c-5,25)],'cyan');poly([(c+5,18),(c+11,23),(c+12,27),(c+5,25)],'cyan')
-  rect((c-1,10,c+1,17),'blue');rect((c,10,c,14),'white');rect((c-2,21,c+2,24),'steel')
-  rect((c-9,24,c-7,25),'gold');rect((c+7,24,c+9,25),'gold');rect((c-3,27,c-2,29),'orange');rect((c+2,27,c+3,29),'orange')
- elif kind=='scout':
-  poly([(c-12,8),(c-7,3),(c-4,10),(c,7),(c+4,10),(c+7,3),(c+12,8),(c+10,20),(c+4,17),(c,25),(c-4,17),(c-10,20)],'ink')
-  poly([(c-10,8),(c-7,6),(c-5,15),(c-9,17)],'purple');poly([(c+10,8),(c+7,6),(c+5,15),(c+9,17)],'purple')
-  poly([(c,10),(c+4,14),(c,22),(c-4,14)],'red');rect((c-2,13,c+2,15),'gold');rect((c,16,c,19),'white')
- elif kind=='manta':
-  poly([(c,5),(c+8,10),(c+15,6),(c+14,19),(c+6,24),(c,20),(c-6,24),(c-14,19),(c-15,6),(c-8,10)],'ink')
-  poly([(c,8),(c+7,13),(c+12,10),(c+11,17),(c+5,20),(c,17),(c-5,20),(c-11,17),(c-12,10),(c-7,13)],'blue')
-  rect((c-3,11,c+3,14),'cyan');rect((c-1,12,c+1,13),'white');rect((c-10,17,c-7,18),'purple');rect((c+7,17,c+10,18),'purple')
- elif kind=='tank':
-  poly([(c-10,4),(c+10,4),(c+14,12),(c+11,26),(c+5,26),(c+4,22),(c-4,22),(c-5,26),(c-11,26),(c-14,12)],'ink')
-  rect((c-8,6,c+8,18),'steel');rect((c-11,12,c-8,23),'orange');rect((c+8,12,c+11,23),'orange');rect((c-4,8,c+4,13),'red');rect((c-2,9,c+2,10),'gold');rect((c-5,17,c+5,19),'light')
- else:
-  # Three wholly original large mechanical bosses: antennae, armor, luminous reactor.
-  tone=['purple','blue','orange'][kind]; accent=['red','cyan','gold'][kind]
-  poly([(c-28,12),(c-18,7),(c-11,18),(c-5,7),(c+5,7),(c+11,18),(c+18,7),(c+28,12),(c+31,36),(c+24,49),(c+14,43),(c+8,55),(c-8,55),(c-14,43),(c-24,49),(c-31,36)],'ink')
-  poly([(c-26,14),(c-19,11),(c-14,22),(c-17,40),(c-24,44),(c-28,34)],tone);poly([(c+26,14),(c+19,11),(c+14,22),(c+17,40),(c+24,44),(c+28,34)],tone)
-  poly([(c-9,20),(c,11),(c+9,20),(c+12,39),(c+6,50),(c-6,50),(c-12,39)],'steel')
-  rect((c-6,23,c+6,36),'ink');rect((c-4,25,c+4,34),accent);rect((c-2,27,c+2,31),'white')
-  for x in [-23,20]:rect((c+x,26,c+x+3,36),'light');rect((c+x+1,36,c+x+2,42),accent)
-  for x in [-7,5]:rect((c+x,41,c+x+2,46),'gold')
- im.save(OUT/(name+'.png'));return im
-sprites={name:ship(name,64 if name.startswith('boss') else 32,kind) for name,kind in [('player','player'),('scout','scout'),('manta','manta'),('tank','tank'),('boss0',0),('boss1',1),('boss2',2)]}
+ frames=[]
+ for frame in range(6):
+  im=Image.new('RGBA',(size,size));d=ImageDraw.Draw(im);c=size//2
+  def poly(points,color):d.polygon(points,fill=color)
+  def rect(box,color):d.rectangle(box,fill=color)
+  def line(points,color,width=1):d.line(points,fill=color,width=width)
+  pulse=['#81b8bf','#99dae1','#dffff1','#ffffff','#dffff1','#99dae1'][frame]
+  if kind=='player':
+   poly([(24,1),(30,13),(31,23),(42,29),(46,40),(34,39),(29,35),(28,44),(19,44),(18,35),(13,39),(1,40),(5,29),(16,23),(17,13)],'#10172f')
+   for sign in [-1,1]:
+    poly([(c+sign*7,22),(c+sign*17,29),(c+sign*20,37),(c+sign*11,35),(c+sign*6,29)],'#2c668b')
+    line([(c+sign*8,23),(c+sign*16,29),(c+sign*18,33)],'#8de6ee',2)
+    rect((c+sign*12-1,31,c+sign*12+1,35),'#ffca78')
+    rect((c+sign*8-1,36,c+sign*8+1,41),'#71869f')
+    for y in range(28,35,3):rect((c+sign*6-1,y,c+sign*6+1,y),'#101b33')
+   poly([(24,3),(27,14),(29,30),(25,39),(21,39),(19,30),(21,14)],'#95acbc')
+   poly([(24,4),(25,16),(25,35),(23,37),(22,25)],'#e9f6e9')
+   poly([(23,12),(26,16),(26,23),(21,23),(21,17)],'#132b4e')
+   rect((23,16,24,21),pulse);rect((22,25,26,26),'#526783');rect((22,30,26,32),'#364e72')
+   for y in [34,37]:line([(21,y),(26,y)],'#e0e6dc')
+   for x in [18,28]:rect((x,40,x+2,44),'#152640');rect((x,42,x+2,44),pulse)
+  elif isinstance(kind,str):
+   tone={'scout':'#8a5fbb','manta':'#398b9d','tank':'#b46b48'}[kind]
+   light={'scout':'#d7a5ed','manta':'#89e6de','tank':'#ffce87'}[kind]
+   wing=frame%3-1
+   if kind=='scout':
+    poly([(24,9),(32,14),(40,3+wing),(46,16),(42,33),(32,29),(24,43),(16,29),(6,33),(2,16),(8,3+wing),(16,14)],'#11192f')
+    for sign in [-1,1]:
+     poly([(c+sign*8,16),(c+sign*15,7+wing),(c+sign*19,17),(c+sign*16,28),(c+sign*9,25)],tone)
+     line([(c+sign*13,13+wing),(c+sign*16,18),(c+sign*14,24)],light,2)
+    poly([(24,13),(30,20),(27,32),(24,39),(21,32),(18,20)],'#cb567d')
+   elif kind=='manta':
+    poly([(24,6),(32,17),(46,10+wing),(44,32),(33,39),(24,32),(15,39),(4,32),(2,10+wing),(16,17)],'#101b31')
+    for sign in [-1,1]:
+     poly([(c+sign*4,17),(c+sign*18,15+wing),(c+sign*16,29),(c+sign*9,34),(c+sign*5,27)],tone)
+     line([(c+sign*8,20),(c+sign*15,18+wing),(c+sign*14,24)],light,2)
+    poly([(24,9),(30,21),(27,31),(21,31),(18,21)],'#6bb9bc')
+   else:
+    poly([(10,5),(37,5),(45,18),(40,41),(29,41),(26,34),(21,34),(18,41),(7,41),(3,18)],'#111a31')
+    rect((12,7,35,28),'#71859c')
+    for x in [7,34]:
+     rect((x,16,x+6,37),tone);rect((x+1,17,x+2,31),light)
+     for y in range(20,33,4):rect((x+3,y,x+5,y+1),'#29334c')
+    rect((15,10,32,25),'#334862');rect((18,28,29,31),'#d8e6df')
+   rect((20,18,27,25),'#18263f');rect((22,19,25,23),pulse)
+   line([(22,27),(25,27)],light)
+   for x in [17,29]:rect((x,12,x+1,13),light)
+  else:
+   # Distinct silhouettes: armored carrier, six articulated limbs, radial fortress.
+   tone=['#79679f','#347b99','#a77848'][kind];light=['#c5abe9','#84d7dd','#ffd49a'][kind]
+   if kind==0:
+    poly([(6,15),(21,5),(35,23),(40,9),(55,9),(61,23),(75,5),(90,15),(94,60),(80,79),(65,67),(58,88),(37,88),(30,67),(15,79),(2,60)],'#10182b')
+    for sign in [-1,1]:
+     poly([(c+sign*17,29),(c+sign*28,11),(c+sign*39,19),(c+sign*42,57),(c+sign*30,70),(c+sign*20,59)],tone)
+     line([(c+sign*27,18),(c+sign*35,24),(c+sign*37,52)],light,2)
+   elif kind==1:
+    for sign in [-1,1]:
+     for j in range(3):
+      y=18+j*22;shift=[0,2,4,2,0,-2][frame]
+      poly([(c+sign*9,y),(c+sign*26,y-9),(c+sign*44,y-4+shift),(c+sign*40,y+8+shift),(c+sign*26,y+2),(c+sign*12,y+16)],'#10182b')
+      line([(c+sign*14,y+3),(c+sign*26,y-4),(c+sign*40,y+1+shift)],tone,5)
+      line([(c+sign*20,y+1),(c+sign*27,y-2),(c+sign*35,y+2+shift)],light,1)
+   else:
+    import math
+    for j in range(8):
+     a=j*math.pi/4; x=int(c+math.cos(a)*31);y=int(c+math.sin(a)*31)
+     d.regular_polygon((x,y,13),6,rotation=j*45,fill='#10182b');d.regular_polygon((x,y,10),6,rotation=j*45,fill=tone)
+     rect((x-2,y-5,x+2,y+4),light)
+   poly([(36,20),(48,12),(59,20),(67,43),(61,68),(54,82),(41,82),(34,68),(29,43)],'#24334e')
+   line([(36,25),(34,43),(38,64),(43,73)],'#8291ac',2);line([(59,25),(62,43),(57,65),(53,74)],light,2)
+   for sign in [-1,1]:
+    for y in range(29,67,6):
+     rect((c+sign*12-2,y,c+sign*12+1,y+2),'#10182b');rect((c+sign*12-1,y,c+sign*12,y),light)
+    for y in [25,71]:rect((c+sign*7,y,c+sign*7+1,y+1),'#e8eddf')
+   d.regular_polygon((48,45,14),8,fill='#101728');d.regular_polygon((48,45,11),8,fill=tone)
+   d.regular_polygon((48,45,8),6,rotation=frame*30,fill=pulse)
+   rect((46,42,49,47),'#ffffff')
+   # Armor seams, recessed vents, rivets and luminous wing conduits.
+   for sign in [-1,1]:
+    for j in range(3):
+     x=c+sign*(25+j*5);y=35+j*7
+     rect((x-2,y,x+2,y+2),'#15243b');rect((x-1,y,x+1,y),light)
+    rect((c+sign*23-2,58,c+sign*23+2,68),'#132339');rect((c+sign*23-1,61,c+sign*23+1,67),pulse)
+  frames.append(im)
+ frames[0].save(OUT/(name+'.png'))
+ sheet=Image.new('RGBA',(size*6,size))
+ for i,im in enumerate(frames):sheet.paste(im,(i*size,0))
+ sheet.save(OUT/(name+'-sheet.png'))
+ return frames[0]
+sprites={name:ship(name,96 if name.startswith('boss') else 48,kind) for name,kind in [('player','player'),('scout','scout'),('manta','manta'),('tank','tank'),('boss0',0),('boss1',1),('boss2',2)]}
 im=Image.new('RGBA',(16,20));d=ImageDraw.Draw(im);d.rectangle((10,0,11,8),fill=P['light']);d.rectangle((11,0,14,1),fill=P['light']);d.polygon([(2,7),(12,7),(14,11),(12,18),(4,19),(1,14)],fill=P['ink']);d.polygon([(3,9),(11,9),(12,12),(10,17),(4,17),(3,14)],fill=P['orange']);d.rectangle((3,8,11,9),fill=P['gold']);d.rectangle((5,10,7,15),fill=P['gold']);d.rectangle((4,7,10,7),fill='#52724c');im.save(OUT/'mate.png')
 # Deliberately low-resolution cover, enlarged with nearest-neighbor.
 im=Image.new('RGB',(480,270),'#070e24');d=ImageDraw.Draw(im);rng=random.Random(82)
@@ -46,7 +105,7 @@ d.ellipse((230,120,570,460),fill='#143c61');d.arc((227,117,573,463),180,320,fill
 for _ in range(75):
  x,y=rng.randrange(280,480),rng.randrange(160,270)
  if (x-400)**2+(y-290)**2<160**2:d.rectangle((x,y,x+rng.randrange(2,10),y+2),fill='#24627b')
-for name,x,y,scale in [('boss0',330,12,2),('manta',240,55,1),('scout',285,100,1),('player',187,147,3)]:
+for name,x,y,scale in [('boss0',337,7,1),('manta',240,48,1),('scout',290,104,1),('player',187,147,2)]:
  s=sprites[name];im.paste(s.resize((s.width*scale,s.height*scale),Image.Resampling.NEAREST),(x,y),s.resize((s.width*scale,s.height*scale),Image.Resampling.NEAREST))
 # Original bitmap lettering using the project's own 5x7 font source.
 # Keep cover text independent of installed fonts using a tiny authored alphabet.

diff --git a/games/orbita-sur/README.md b/games/orbita-sur/README.md
@@ -32,3 +32,11 @@ La tipografía es Barlow Condensed / Space Mono de Google Fonts, con fallback lo
 - Probar además el paquete real en `/admin/probar/orbita-sur`, publicar y abrir desde el catálogo.
 
 Phaser se distribuye con su licencia MIT en PHASER-LICENSE.txt. Arte, encuentros y efectos de sonido son propios de este proyecto.
+
+## Edición 02: reactores activos
+
+Sprites de 48 px para naves y 96 px para jefes, con seis frames por modelo (42 frames originales). Nuevas siluetas de portanaves, Tejedora de seis brazos y fortaleza radial; paneles, rejillas, cabina y conductos. Reactores giratorios, motores, destellos de boca, impactos, fragmentos y explosiones encadenadas al destruir jefes. El cinturón incluye asteroides por parallax.
+
+Los jefes cargan un rayo durante 1,15 segundos sobre una columna marcada antes de disparar; el pulso cancela tanto el rayo como los proyectiles. La fase crítica avisa al caer por debajo del 45 % de salud. El estado visual se congela durante la pausa. Se conservan las cinco vidas de mate y el namespace del récord existente.
+
+Validación: siete sheets de seis cuadros; rayo anunciado sin daño, rayo activo con daño, cancelación por pulso, congelación al pausar, tres destrucciones encadenadas, victoria, derrota, reinicio limpio y viewport táctil de 390 px sin overflow.
